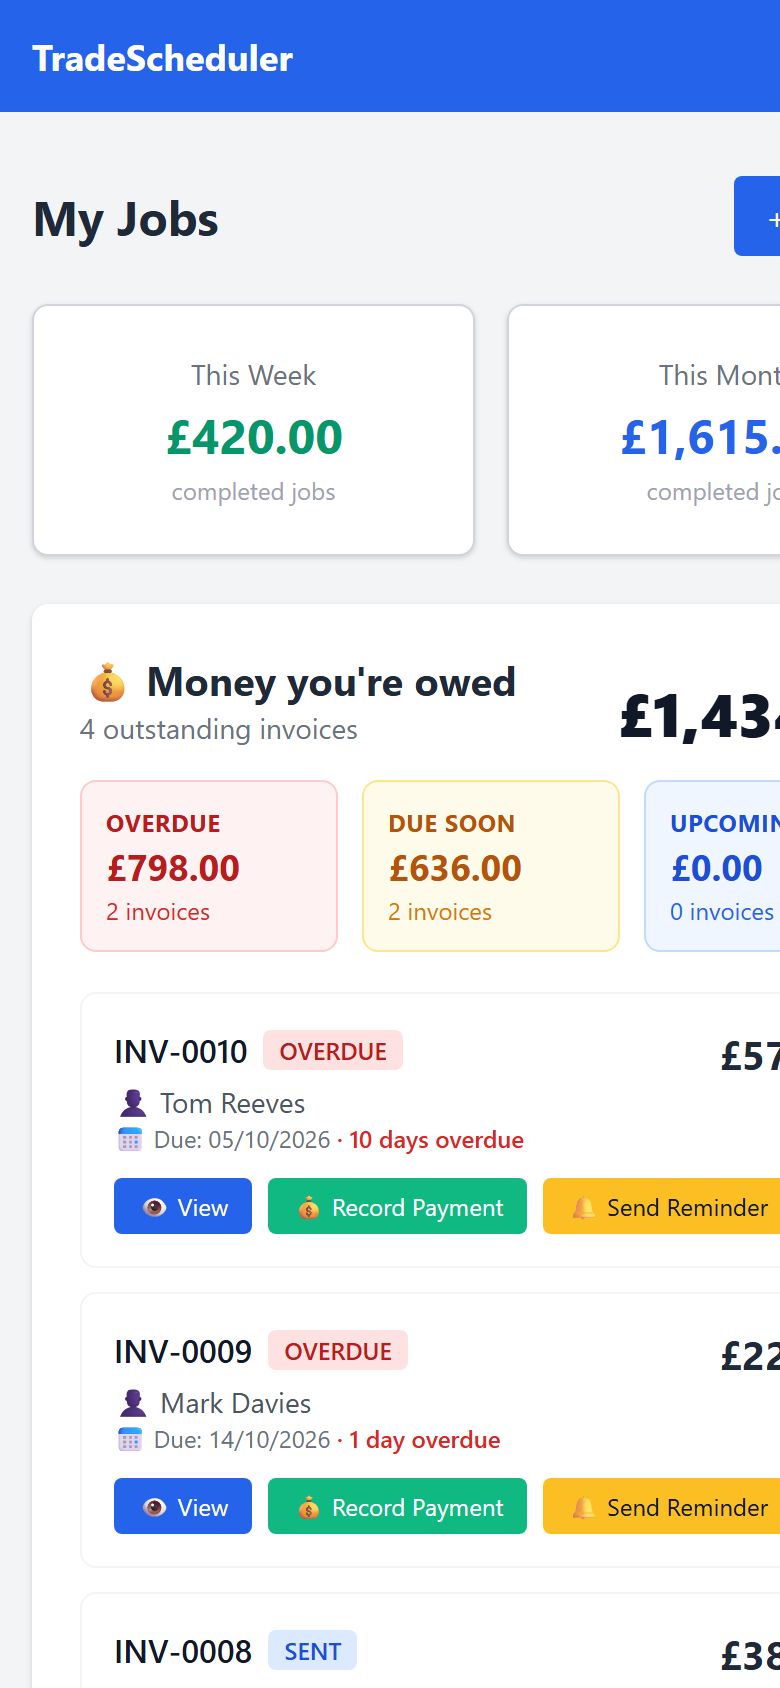
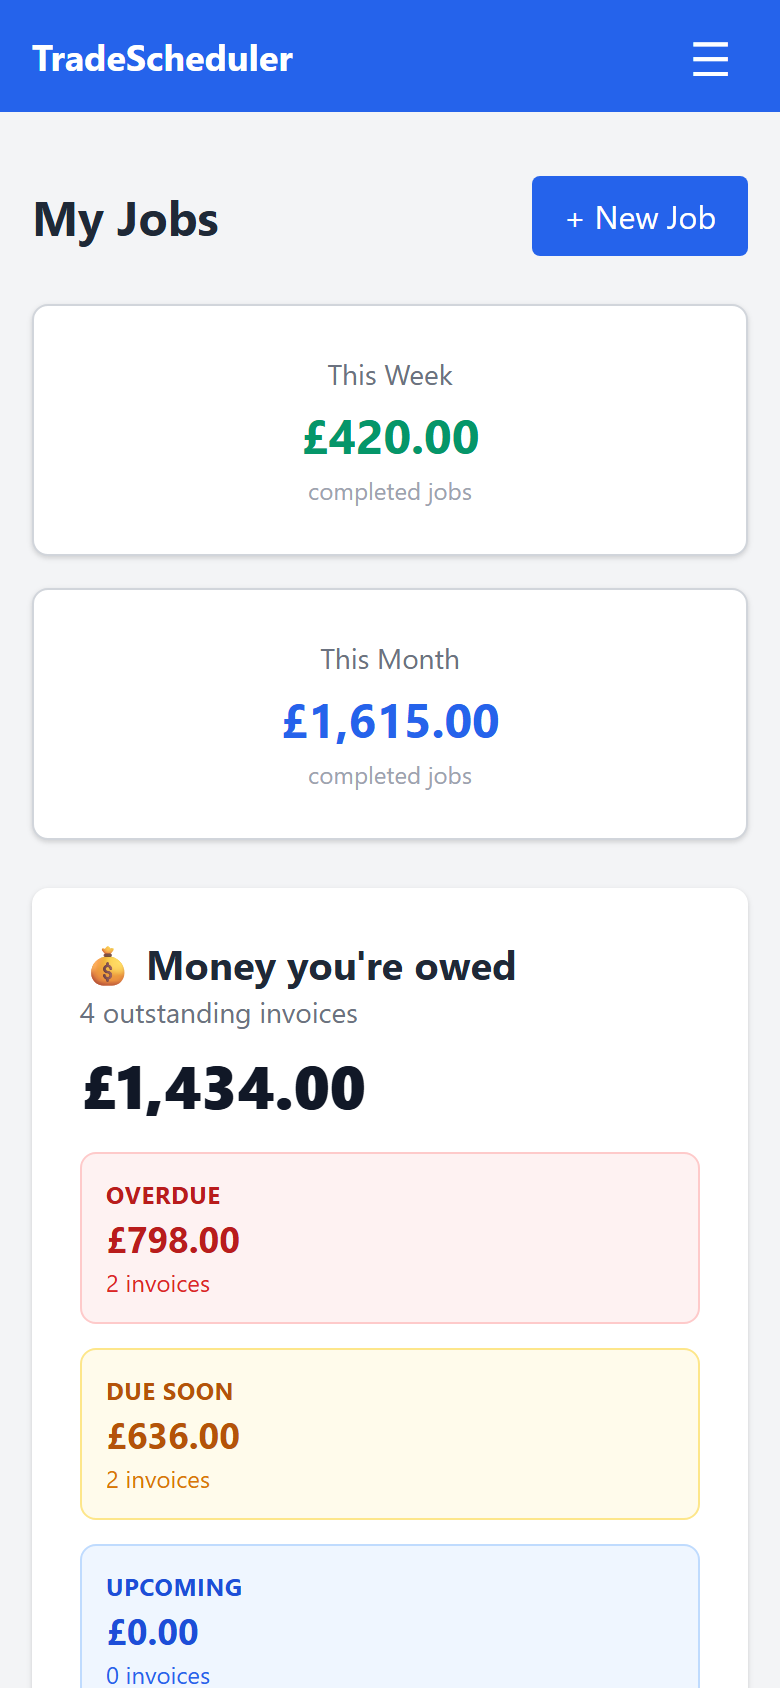
Frame the phone screenshot at its true 390px width
Headless Chrome will not lay a window out narrower than about 491px, whatever
--window-size says. The phone shot was therefore laid out at 491px and then
cropped to 390px, which is why the dashboard looked pushed off the right edge:
the stat cards and money boxes were still in their two- and three-column
layouts and ran past the picture.

The phone shot is now taken of a 390px iframe inside a wider window (new
__phone_frame__ route in demo_server.py, dev tooling only) and cropped to the
frame. Measured: the picture now shows one full-width card per row, which is
what the live page renders at 390px.

diff --git a/tools/make_screenshots.py b/tools/make_screenshots.py
@@ -58,6 +58,12 @@ SCALE = 2             # capture at 2x, then downscale, for crisp text
 # when that strip is unmistakable, so a footer can never be sliced off.
 BLANK_RUN = 120
 
+# Headless Chrome will not lay a window out narrower than this, whatever
+# --window-size says. Phone shots are framed at their true width instead, see
+# the __phone_frame__ route in demo_server.py.
+MIN_WINDOW_WIDTH = 491
+PHONE_SHOTS = {'dashboard-phone'}
+
 
 def find_chrome():
     override = os.environ.get('CHROME_PATH')
@@ -146,11 +152,14 @@ def trim_blank_bottom(image):
     return image.crop((0, 0, width, content_end)), height - content_end
 
 
-def tidy(path):
+def tidy(path, frame_width=None):
     from PIL import Image
 
     with Image.open(path) as raw:
         image = raw.convert('RGB')
+
+    if frame_width:
+        image = image.crop((0, 0, frame_width * SCALE, image.height))
 
     image, removed = trim_blank_bottom(image)
 
@@ -196,9 +205,14 @@ def main():
         with tempfile.TemporaryDirectory(prefix='ts-shots-') as profile:
             for name, path, width, height in shots:
                 out_path = OUT_DIR / ('%s.png' % name)
-                url = '%s/__demo_login__?next=%s' % (base, urllib.parse.quote(path))
-                capture(chrome, profile, url, out_path, width, height)
-                size, removed = tidy(out_path)
+                framed = name in PHONE_SHOTS
+                target = path
+                if framed:
+                    target = '/__phone_frame__?next=%s' % urllib.parse.quote(path)
+                url = '%s/__demo_login__?next=%s' % (base, urllib.parse.quote(target))
+                window_width = max(width, MIN_WINDOW_WIDTH) if framed else width
+                capture(chrome, profile, url, out_path, window_width, height)
+                size, removed = tidy(out_path, frame_width=width if framed else None)
                 print('%-18s %sx%s  %5.0f KB%s' % (
                     name, size[0], size[1],
                     out_path.stat().st_size / 1024,

diff --git a/tools/demo_server.py b/tools/demo_server.py
@@ -269,6 +269,26 @@ def main():
             target = '/'
         return redirect(target)
 
+    @app.route('/__phone_frame__')
+    def _phone_frame():
+        """Show a page at phone width inside a host page.
+
+        Headless Chrome will not lay a window out narrower than about 491px, so a
+        390px capture is really laid out at 491px and then cropped, which clips the
+        page. Framing the page in a 390px iframe inside a wider window gives it a
+        true 390px layout. Like the login route, this exists only in this file.
+        """
+        from flask import request
+        from markupsafe import escape
+
+        target = request.args.get('next') or '/'
+        if not target.startswith('/') or target.startswith('//'):
+            target = '/'
+        return ('<!doctype html><html><body style="margin:0;background:#fff">'
+                '<iframe src="%s" width="390" height="844" '
+                'style="border:0;display:block"></iframe></body></html>'
+                % escape(target))
+
     print('login: %s / %s' % (DEMO_USERNAME, DEMO_PASSWORD))
     app.run(host='127.0.0.1', port=args.port, use_reloader=False, debug=False,
             threaded=True)
